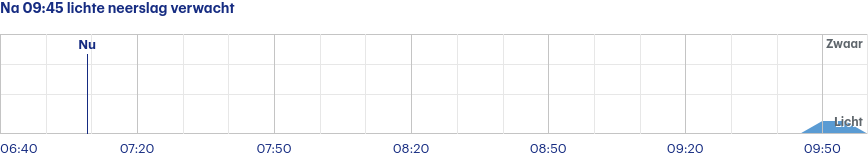
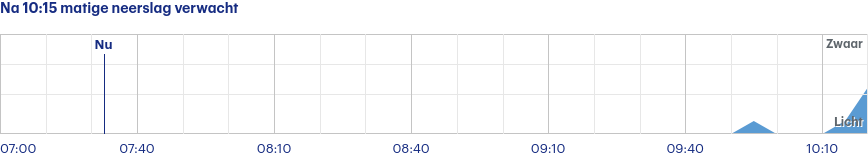
Latest scraping buienradar: Sun Jul 30 05:24:30 UTC 2023

diff --git a/scrapes/buienradar/buienradar-jette-3-uur.md b/scrapes/buienradar/buienradar-jette-3-uur.md
@@ -1,4 +1,4 @@
-Na 09:45 lichte neerslag verwacht
+Na 10:15 matige neerslag verwacht
 
 ![](buienradar-jette-3-uur.png)
 
